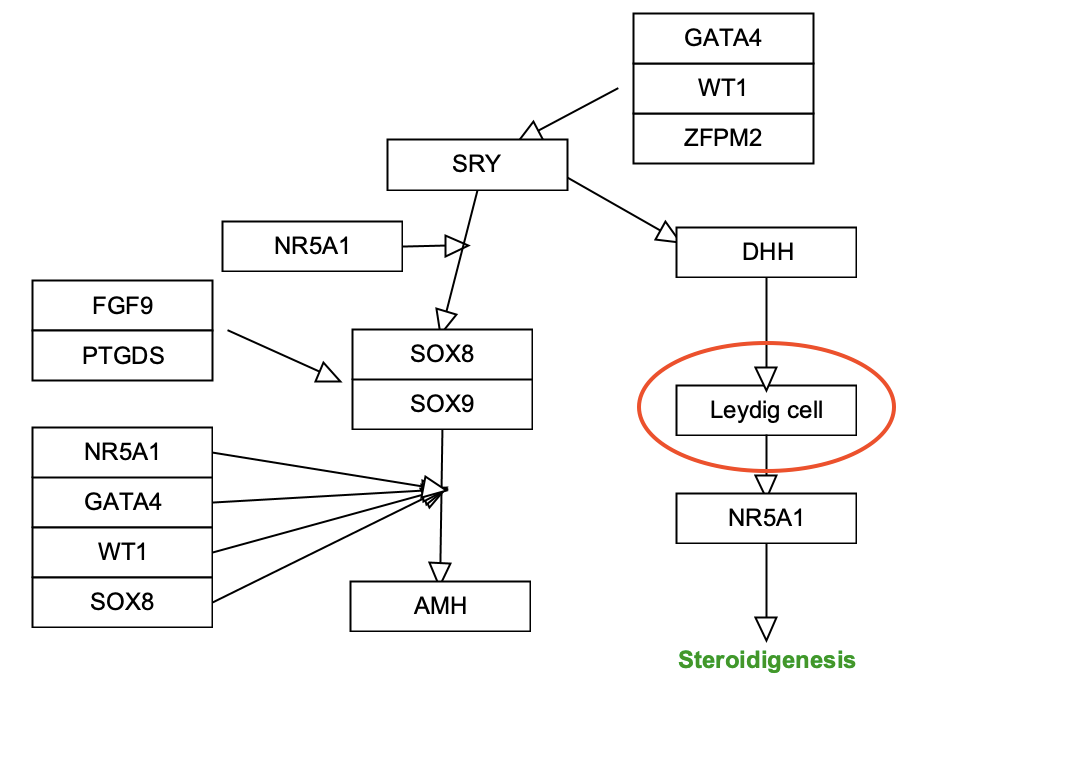
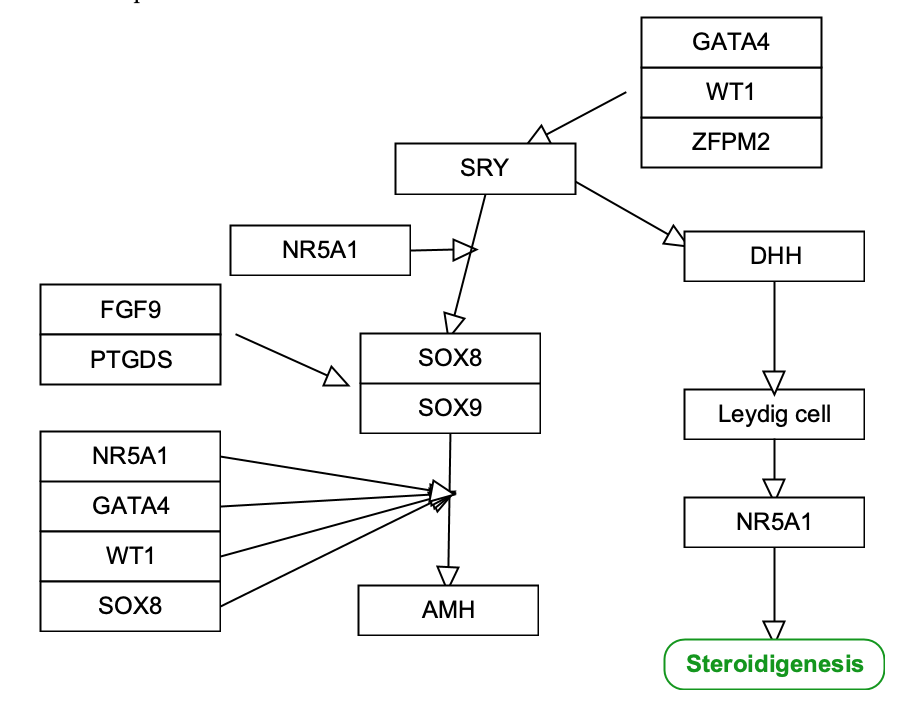
updated gpmls and images for pathway node

diff --git a/stages/sig-transcription/index.html b/stages/sig-transcription/index.html
@@ -53,7 +53,7 @@
                 <li>Add inhibition from the AKT1/2/3 group to FOXO1. To make it an arrow like in the figure, right-click on the interaction and select <b>Line type > Elbow</b>.</li>
                 <li>Add a pathway node for "Gluconeogenesis", and annotate it manually using "WP534" as the identifier and "WikiPathways" as the database.</li>
                 <li>Add another pathway node for "De novo lipigenesis". Since there is no pathway model at WikiPathways describing this process, leave the identifier and database empty.</li> 
-                <li>A pathway node is by default of <b>Shape Type</b> "None". Update the <b>Shape Type</b> to "RoundedRectangle" for both pathway nodes.</li>
+                <li>A pathway node is by default of <b>Shape Type</b> "None". Update the <b>Shape Type</b> to "RoundedRectangle" for both pathway nodes. This ensures that the pathway node is clickabile in WikiPathways.</li>
                 <li>Add <b>arrow</b> interaction from FOXO1 to the Gluconeogenesis node.</li>
                 <li>Add arrow from the SREBP1/MLXIPL group to the De novo lipogenesis node.</li>
                 <li>Select the <b>Nucleus</b> object from the <b>Objects</b> panel of the toolbar.</li>

diff --git a/stages/sig-cascade/index.html b/stages/sig-cascade/index.html
@@ -49,7 +49,7 @@
               <li>Add nodes for the PI3K complex: PIK3R1, PIK3R2 and PIK3CA, PIK3CB and PIK3CD. Group the nodes and make it a complex.</li>
               <li>Group the three AKT nodes, the two GSK3 nodes.</li>
               <li>Add nodes for glycogen synthase (GS); GYS1, GYS2 and then group them.</li>
-              <li>Add a pathway node for Glycogen Synthesis, and annotate it manually using "WP500" as the identifier and "WikiPathways" as the database.</li>
+              <li>Add a pathway node for Glycogen Synthesis, and annotate it manually using "WP500" as the identifier and "WikiPathways" as the database. Update the <b>Shape Type</b> to "RoundedRectangle" for the “Pentose Phosphate Pathway” node. This ensures that the pathway node is clickabile in WikiPathways.</li>
               <li>A pathway node is by default of <b>Shape Type</b> "None". Update the <b>Shape Type</b> to "RoundedRectangle" for the “Glycogen Synthesis” node.</li>
               <li>Connect the nodes using the <b>arrow</b> interaction or <b>mim-interaction</b>, and arrange the nodes according to the figure.</li>
               <li>Save your work as a GPML file under <b>File > Save As</b>.</li>

diff --git a/stages/fig-met-1-first/index.html b/stages/fig-met-1-first/index.html
@@ -53,7 +53,7 @@
                 <li>Instead of searching for an ID, enter the id “WP134” in the <b>Identifier</b> field, and enter “WikiPathways” 
 		in the <b>Database field</b>.</li>
 		        <li>Type in “Pentose Phosphate Pathway” as the <b>Text label</b>. Click <b>OK</b>.</li>
-                <li>A pathway node is by default of <b>Shape Type</b> "None". Update the <b>Shape Type</b> to "RoundedRectangle" for the “Pentose Phosphate Pathway” node.</li>
+                <li>A pathway node is by default of <b>Shape Type</b> "None". Update the <b>Shape Type</b> to "RoundedRectangle" for the “Pentose Phosphate Pathway” node. This ensures that the pathway node is clickabile in WikiPathways.</li>
                 <li>Draw the mim-conversion arrows between the glucose and glucose-6-phosphate nodes, and add an anchor to it.</li>
 		        <li>For the interaction between glucose-6-phosphate node and the pentose phosphate pathway node, add the default arrow interaction.</li>
                 <li>Add the gene products that catalyze the conversion between glucose and glucose-6-phosphate, HK1. For the interaction between glucose-6-phosphate and the
